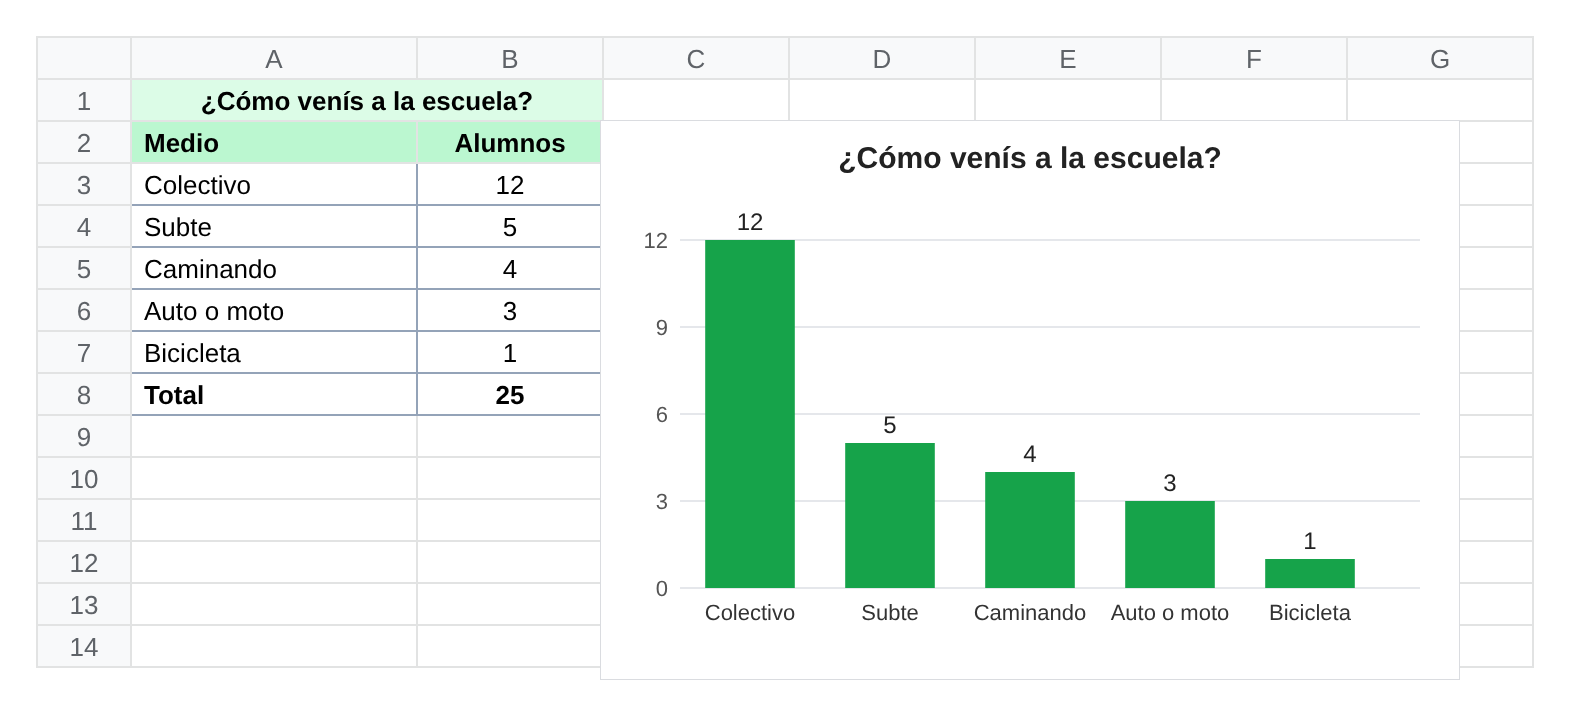
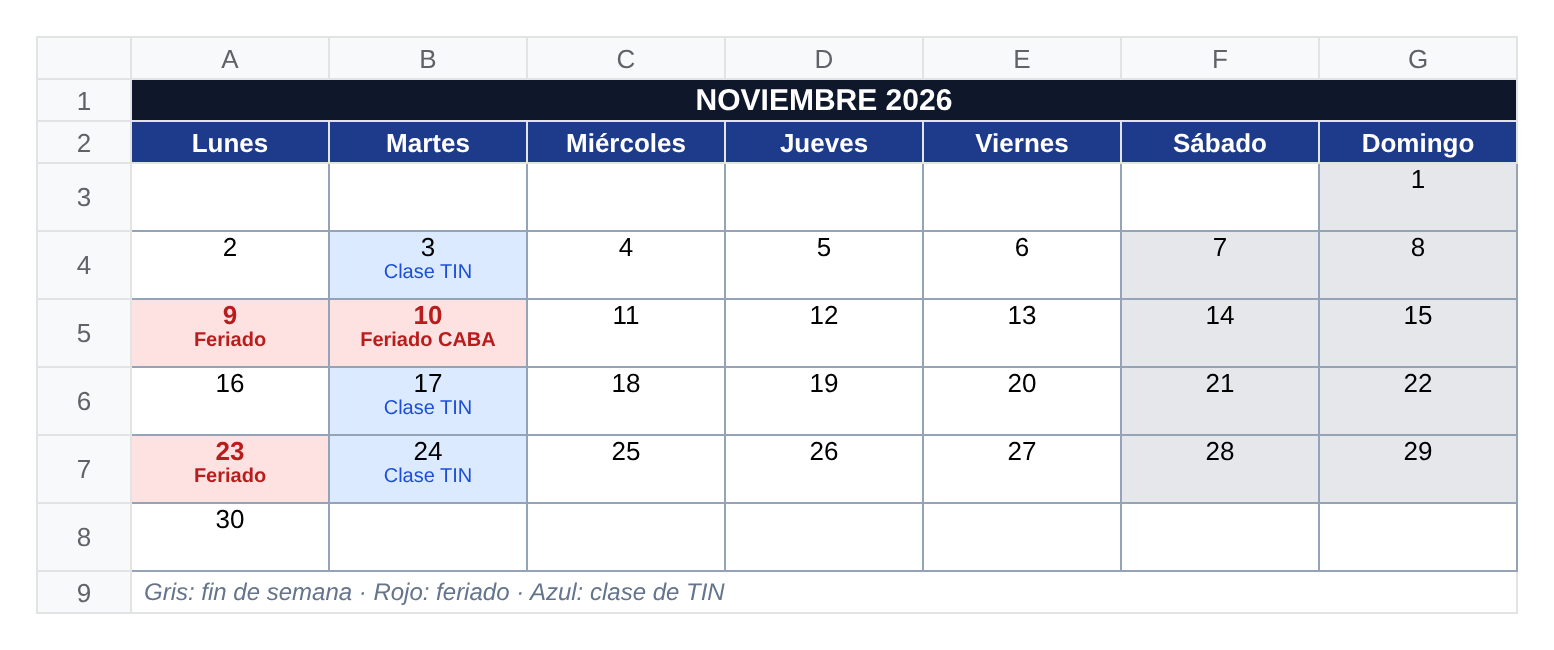
Add files via upload

diff --git a/clase34.html b/clase34.html
@@ -3,7 +3,7 @@
 <head>
     <meta charset="UTF-8">
     <meta name="viewport" content="width=device-width, initial-scale=1.0">
-    <title>Clase 34 — Cierre del año</title>
+    <title>Clase 34 — Trabajo final</title>
     <style>
         /* === VARIABLES DE COLOR === */
         :root {
@@ -293,121 +293,90 @@
 
         <!-- PANTALLA 1 -->
         <div class="screen active center-screen" id="screen-1">
-            <h1 class="title">Clase 34<br><span style="color: var(--accent-blue);">Cierre del año</span></h1>
-            <p class="subtitle">Un trabajo con Sheets, Docs y Canva juntos, y tiempo para entregar lo que falte.</p>
+            <h1 class="title">Clase 34<br><span style="color: var(--accent-blue);">Trabajo final</span></h1>
+            <p class="subtitle">Elegí una herramienta y hacé un trabajo para aprobar la materia.</p>
         </div>
         <!-- PANTALLA 2 -->
         <div class="screen" id="screen-2">
-            <h1 class="title title-ex"><span class="tag">Hoy</span>¿Qué hago en esta clase?</h1>
+            <h1 class="title title-ex"><span class="tag">Elegí una</span>Las 3 opciones</h1>
 
-            <ul class="check-list">
-                <li><b>Si te falta entregar algo:</b> terminalo primero. La lista está en la próxima pantalla.</li>
-                <li><b>Si tenés todo entregado:</b> hacé el trabajo integrador con las tres herramientas.</li>
-            </ul>
-        </div>
-        <!-- PANTALLA 3 -->
-        <div class="screen" id="screen-3">
-            <h1 class="title title-ex"><span class="tag">Puesta al día</span>Lo que se entregó este año</h1>
-
-            <ul class="check-list">
-                <li>Clase 28 — Evaluación: Día de la Tradición.</li>
-                <li>Clase 29 — CV a una columna.</li>
-                <li>Clase 29 bis — CV a dos columnas.</li>
-                <li>Clase 30 — CV mejorado con IA.</li>
-                <li>Clase 31 — Repaso de Docs.</li>
-                <li>Clase 32 — Repaso de Sheets.</li>
-                <li>Clase 33 — Repaso de Canva.</li>
+            <ul class="check-list steps">
+                <li><b>Docs:</b> una receta.</li>
+                <li><b>Sheets:</b> la planilla para organizar la fiesta.</li>
+                <li><b>Canva:</b> un certificado de fin de curso.</li>
             </ul>
 
             <div class="highlight-box">
-                📌 Cada módulo está en la página de clases. Abrilo, terminá lo que te falte y subilo a su tarea de Classroom.
+                📌 Hacé solo una de las tres.
+            </div>
+        </div>
+        <!-- PANTALLA 3 -->
+        <div class="screen" id="screen-3">
+            <h1 class="title title-ex"><span class="tag">Opción 1 · Docs</span>Receta</h1>
+
+            <div class="image-frame">
+                <a href="c34-docs.png" target="_blank"><img class="cv-image" src="c34-docs.png" alt="Modelo de receta en Docs"></a>
+            </div>
+            <p class="cv-hint">Tocá el modelo para verlo en grande.</p>
+
+            <p class="list-label">Tiene que tener</p>
+            <ul class="check-list">
+                <li>Título, subtítulo y una tabla chica con porciones y tiempo.</li>
+                <li>Ingredientes con viñetas.</li>
+                <li>Preparación con lista numerada.</li>
+            </ul>
+
+            <div class="highlight-box">
+                📌 Consigna: copiá esta receta (o escribí una que te guste con el mismo formato).
             </div>
         </div>
         <!-- PANTALLA 4 -->
         <div class="screen" id="screen-4">
-            <h1 class="title title-ex"><span class="tag">Trabajo integrador</span>La encuesta del año</h1>
-
-            <ul class="check-list steps">
-                <li>Hacé una encuesta en el curso: <b>"¿Qué herramienta te gustó más este año?"</b></li>
-                <li>Opciones: Google Docs, Google Sheets, Canva o IA.</li>
-                <li>Con los resultados vas a armar una planilla, un informe y un afiche.</li>
-            </ul>
-        </div>
-        <!-- PANTALLA 5 -->
-        <div class="screen" id="screen-5">
-            <h1 class="title title-ex"><span class="tag">Paso 1 · Sheets</span>Tabla y gráfico</h1>
+            <h1 class="title title-ex"><span class="tag">Opción 2 · Sheets</span>Organización de la fiesta</h1>
 
             <div class="image-frame">
-                <a href="c34-sheets.png" target="_blank"><img class="cv-image" src="c34-sheets.png" alt="Modelo de tabla y gráfico de la encuesta en Sheets"></a>
+                <a href="c34-sheets.png" target="_blank"><img class="cv-image" src="c34-sheets.png" alt="Modelo de planilla para organizar la fiesta"></a>
             </div>
             <p class="cv-hint">Tocá el modelo para verlo en grande.</p>
 
             <p class="list-label">Tiene que tener</p>
             <ul class="check-list">
-                <li>Tabla con cada herramienta, sus votos y el total.</li>
-                <li>Gráfico de columnas: <span class="menu-path">Insertar &gt; Gráfico</span>.</li>
+                <li>Título combinado y encabezados con color.</li>
+                <li>Al menos 6 tareas con responsable y fecha.</li>
+                <li>Estado en verde si está hecho y en amarillo si está pendiente.</li>
             </ul>
 
-            <div class="highlight-box highlight-tip">
-                💡 Los números del modelo son de ejemplo. Usá los de tu encuesta.
+            <div class="highlight-box">
+                📌 Consigna: copiá esta planilla (o armá la de otro evento).
             </div>
+        </div>
+        <!-- PANTALLA 5 -->
+        <div class="screen" id="screen-5">
+            <h1 class="title title-ex"><span class="tag">Opción 3 · Canva</span>Certificado de fin de curso</h1>
+
+            <div class="image-frame">
+                <a href="certificado.png" target="_blank"><img class="cv-image" src="certificado.png" alt="Modelo de certificado de fin de curso"></a>
+            </div>
+            <p class="cv-hint">Tocá el modelo para verlo en grande.</p>
+
+            <p class="list-label">Tiene que tener</p>
+            <ul class="check-list">
+                <li>Título: "Certificado".</li>
+                <li>Tu nombre, la materia y el año.</li>
+                <li>Un espacio para la firma.</li>
+            </ul>
 
             <div class="highlight-box">
-                📌 Consigna: armá la tabla y el gráfico con los votos de tu curso.
+                📌 Consigna: copiá este diseño (o basate en él) con tu nombre.
             </div>
         </div>
         <!-- PANTALLA 6 -->
         <div class="screen" id="screen-6">
-            <h1 class="title title-ex"><span class="tag">Paso 2 · Docs</span>Informe</h1>
-
-            <div class="image-frame">
-                <a href="c34-docs.png" target="_blank"><img class="cv-image" src="c34-docs.png" alt="Modelo de informe de la encuesta en Docs"></a>
-            </div>
-            <p class="cv-hint">Tocá el modelo para verlo en grande.</p>
-
-            <p class="list-label">Tiene que tener</p>
-            <ul class="check-list">
-                <li>Título y subtítulo.</li>
-                <li>Un párrafo que cuente qué se preguntó y a cuántos.</li>
-                <li>El gráfico: <span class="menu-path">Insertar &gt; Gráfico &gt; Desde Hojas de cálculo</span>, elegí tu planilla y hacé clic en <span class="menu-path">Importar</span>.</li>
-                <li>Una conclusión: cuál ganó y con cuántos votos.</li>
-            </ul>
-
-            <div class="highlight-box">
-                📌 Consigna: copiá este informe (o basate en él) con tus datos.
-            </div>
-        </div>
-        <!-- PANTALLA 7 -->
-        <div class="screen" id="screen-7">
-            <h1 class="title title-ex"><span class="tag">Paso 3 · Canva</span>Afiche con el resultado</h1>
-
-            <p class="subtitle" style="margin-bottom: 14px;">El modelo es el cartel directo de la clase del Día del Empleado de Comercio.</p>
-
-            <div class="image-frame">
-                <a href="cartedato.png" target="_blank"><img class="cv-image" src="cartedato.png" alt="Modelo de cartel directo del Día del Empleado de Comercio"></a>
-            </div>
-            <p class="cv-hint">Tocá el modelo para verlo en grande.</p>
-
-            <p class="list-label">Tiene que tener</p>
-            <ul class="check-list">
-                <li>El resultado en grande: qué herramienta ganó.</li>
-                <li>El dato: cuántos votos sacó.</li>
-                <li>Un ícono representativo.</li>
-            </ul>
-
-            <div class="highlight-box">
-                📌 Consigna: basate en este cartel "directo" para mostrar el resultado de la encuesta.
-            </div>
-        </div>
-        <!-- PANTALLA 8 -->
-        <div class="screen" id="screen-8">
             <h1 class="title title-ex" style="text-align: center;">Entrega</h1>
 
             <ul class="check-list">
-                <li>La planilla con la tabla y el gráfico.</li>
-                <li>El informe en PDF.</li>
-                <li>El afiche como imagen (PNG) o PDF.</li>
-                <li>Todo subido a la tarea de Classroom.</li>
+                <li>El trabajo que elegiste, en PDF o como imagen (PNG).</li>
+                <li>Subido a la tarea de Classroom.</li>
             </ul>
         </div>
 
@@ -418,7 +387,7 @@
                 Anterior
             </button>
 
-            <div class="step-counter" id="step-counter">1 / 8</div>
+            <div class="step-counter" id="step-counter">1 / 6</div>
 
             <button class="btn btn-next" id="btn-next" onclick="changeStep(1)">
                 Siguiente
@@ -431,7 +400,7 @@
     <!-- === LÓGICA DE NAVEGACIÓN === -->
     <script>
         let currentStep = 1;
-        const totalSteps = 8;
+        const totalSteps = 6;
 
         function updateUI() {
             document.querySelectorAll('.screen').forEach(screen => {

diff --git a/clase33.html b/clase33.html
@@ -294,19 +294,17 @@
         <!-- PANTALLA 1 -->
         <div class="screen active center-screen" id="screen-1">
             <h1 class="title">Clase 33<br><span style="color: var(--accent-blue);">Repaso de Canva</span></h1>
-            <p class="subtitle">Cuatro piezas para la fiesta de fin de año, con los modelos que ya conocés.</p>
+            <p class="subtitle">Cuatro piezas para las fiestas de fin de año.</p>
         </div>
         <!-- PANTALLA 2 -->
         <div class="screen" id="screen-2">
             <h1 class="title title-ex"><span class="tag">Hoy repasamos</span>Las 4 piezas</h1>
 
-            <p class="subtitle" style="margin-bottom: 14px;">Los modelos son los del Día de la Tradición. Ahora cambia el tema: la fiesta de fin de año.</p>
-
             <ul class="check-list steps">
-                <li><b>Afiche</b> de la fiesta.</li>
-                <li><b>Invitación.</b></li>
-                <li><b>Post e historia</b> para redes.</li>
-                <li><b>Cronograma</b> de la fiesta.</li>
+                <li><b>Tarjeta</b> de felices fiestas.</li>
+                <li><b>Invitación</b> a la fiesta de fin de año del curso.</li>
+                <li><b>Post e historia</b> de feliz año nuevo.</li>
+                <li><b>Menú</b> de la cena de fin de año.</li>
             </ul>
 
             <div class="highlight-box">
@@ -315,46 +313,46 @@
         </div>
         <!-- PANTALLA 3 -->
         <div class="screen" id="screen-3">
-            <h1 class="title title-ex"><span class="tag">Pieza 1</span>Afiche</h1>
+            <h1 class="title title-ex"><span class="tag">Pieza 1</span>Tarjeta de felices fiestas</h1>
 
             <div class="image-frame">
-                <a href="trad1.png" target="_blank"><img class="cv-image" src="trad1.png" alt="Modelo de afiche del Día de la Tradición"></a>
+                <a href="fiestas1.png" target="_blank"><img class="cv-image" src="fiestas1.png" alt="Modelo de tarjeta de felices fiestas"></a>
             </div>
             <p class="cv-hint">Tocá el modelo para verlo en grande.</p>
 
             <p class="list-label">Tiene que tener</p>
             <ul class="check-list">
-                <li>Título grande: "Fiesta de fin de año".</li>
-                <li>Fecha, hora y lugar.</li>
-                <li>Un ícono o imagen que represente la fiesta.</li>
+                <li>Un saludo corto y grande.</li>
+                <li>Un ícono o imagen de las fiestas.</li>
+                <li>A quién va dirigida y quién la manda.</li>
             </ul>
 
-            <div class="highlight-box highlight-tip">
-                💡 <b>Datos:</b> Fiesta de fin de año · Viernes 4 de diciembre · 20 h · Patio de la escuela.
-            </div>
-
             <div class="highlight-box">
-                📌 Consigna: basate en este diseño para el afiche de la fiesta.
+                📌 Consigna: copiá este diseño (o basate en él) para tu tarjeta.
             </div>
         </div>
         <!-- PANTALLA 4 -->
         <div class="screen" id="screen-4">
-            <h1 class="title title-ex"><span class="tag">Pieza 2</span>Invitación</h1>
+            <h1 class="title title-ex"><span class="tag">Pieza 2</span>Invitación a la fiesta</h1>
 
             <div class="image-frame">
-                <a href="trad2.png" target="_blank"><img class="cv-image" src="trad2.png" alt="Modelo de invitación del Día de la Tradición"></a>
+                <a href="fiestas2.png" target="_blank"><img class="cv-image" src="fiestas2.png" alt="Modelo de invitación a la fiesta de fin de año"></a>
             </div>
             <p class="cv-hint">Tocá el modelo para verlo en grande.</p>
 
             <p class="list-label">Tiene que tener</p>
             <ul class="check-list">
-                <li>Qué: la fiesta de fin de año.</li>
+                <li>Qué: la fiesta de fin de año del curso.</li>
                 <li>Cuándo y dónde.</li>
-                <li>Mismos colores y tipografías que el afiche.</li>
+                <li>Mismos colores y tipografías que la tarjeta.</li>
             </ul>
 
+            <div class="highlight-box highlight-tip">
+                💡 <b>Datos de ejemplo:</b> Viernes 4 de diciembre · 20 h · Patio de la escuela.
+            </div>
+
             <div class="highlight-box">
-                📌 Consigna: basate en este diseño para la invitación.
+                📌 Consigna: copiá este diseño (o basate en él) para la invitación.
             </div>
         </div>
         <!-- PANTALLA 5 -->
@@ -362,7 +360,7 @@
             <h1 class="title title-ex"><span class="tag">Pieza 3</span>Post e historia</h1>
 
             <div class="image-frame">
-                <a href="trad3.png" target="_blank"><img class="cv-image" src="trad3.png" alt="Modelo de post e historia del Día de la Tradición"></a>
+                <a href="fiestas3.png" target="_blank"><img class="cv-image" src="fiestas3.png" alt="Modelo de post e historia de feliz año nuevo"></a>
             </div>
             <p class="cv-hint">Tocá el modelo para verlo en grande.</p>
 
@@ -374,27 +372,27 @@
             </ul>
 
             <div class="highlight-box">
-                📌 Consigna: pasá tu afiche a los dos formatos.
+                📌 Consigna: armá tu saludo de año nuevo en los dos formatos.
             </div>
         </div>
         <!-- PANTALLA 6 -->
         <div class="screen" id="screen-6">
-            <h1 class="title title-ex"><span class="tag">Pieza 4</span>Cronograma</h1>
+            <h1 class="title title-ex"><span class="tag">Pieza 4</span>Menú de la cena</h1>
 
             <div class="image-frame">
-                <a href="trad4.png" target="_blank"><img class="cv-image" src="trad4.png" alt="Modelo de cronograma del Día de la Tradición"></a>
+                <a href="fiestas4.png" target="_blank"><img class="cv-image" src="fiestas4.png" alt="Modelo de menú de la cena de fin de año"></a>
             </div>
             <p class="cv-hint">Tocá el modelo para verlo en grande.</p>
 
             <p class="list-label">Tiene que tener</p>
             <ul class="check-list">
-                <li>Al menos 4 horarios con su actividad.</li>
-                <li>Los horarios tienen que destacarse.</li>
-                <li>Mismos colores y tipografías que las otras piezas.</li>
+                <li>Título del menú.</li>
+                <li>Entrada, plato principal, postre y bebidas.</li>
+                <li>Los nombres de cada parte destacados.</li>
             </ul>
 
             <div class="highlight-box">
-                📌 Consigna: armá el cronograma de la fiesta con horarios y actividades que se te ocurran.
+                📌 Consigna: copiá este diseño (o basate en él) con el menú que se te ocurra.
             </div>
         </div>
         <!-- PANTALLA 7 -->
@@ -402,7 +400,7 @@
             <h1 class="title title-ex" style="text-align: center;">Entrega</h1>
 
             <ul class="check-list">
-                <li>5 piezas: afiche, invitación, post, historia y cronograma.</li>
+                <li>5 piezas: tarjeta, invitación, post, historia y menú.</li>
                 <li>Descargadas como imagen (PNG) o PDF.</li>
                 <li>Subidas a la tarea de Classroom.</li>
             </ul>

diff --git a/clase32.html b/clase32.html
@@ -303,7 +303,7 @@
             <ul class="check-list steps">
                 <li><b>Dibujo con celdas:</b> coordenadas y color de relleno.</li>
                 <li><b>Tabla con formato:</b> celdas combinadas, colores y bordes.</li>
-                <li><b>Tabla con gráfico:</b> datos de una encuesta y su gráfico.</li>
+                <li><b>Calendario:</b> una tabla grande con colores para cada tipo de día.</li>
             </ul>
 
             <div class="highlight-box">
@@ -353,22 +353,27 @@
         </div>
         <!-- PANTALLA 5 -->
         <div class="screen" id="screen-5">
-            <h1 class="title title-ex"><span class="tag">Ejercicio 3</span>Tabla con gráfico</h1>
+            <h1 class="title title-ex"><span class="tag">Ejercicio 3</span>Calendario</h1>
 
             <div class="image-frame">
-                <a href="c32-modelo3.png" target="_blank"><img class="cv-image" src="c32-modelo3.png" alt="Modelo de tabla y gráfico: cómo vienen los alumnos a la escuela"></a>
+                <a href="c32-modelo3.png" target="_blank"><img class="cv-image" src="c32-modelo3.png" alt="Modelo de calendario de noviembre 2026 en Sheets"></a>
             </div>
             <p class="cv-hint">Tocá el modelo para verlo en grande.</p>
 
             <p class="list-label">Tiene que tener</p>
             <ul class="check-list">
-                <li>Tabla con los datos y una fila de total.</li>
-                <li>Seleccioná la tabla, sin el título ni el total, y andá a <span class="menu-path">Insertar &gt; Gráfico</span>.</li>
-                <li>Si no sale de columnas, hacé doble clic en el gráfico y cambialo en "Tipo de gráfico".</li>
+                <li>Título combinado arriba y los días de la semana como encabezado.</li>
+                <li>Filas más altas para que entre el número y una aclaración.</li>
+                <li>Fines de semana en gris, feriados en rojo y días de clase en azul.</li>
+                <li>Una fila al final que explique qué significa cada color.</li>
             </ul>
 
+            <div class="highlight-box highlight-tip">
+                💡 Para hacer más alta una fila, arrastrá la línea de abajo del número de fila.
+            </div>
+
             <div class="highlight-box">
-                📌 Consigna: copiá esta tabla y su gráfico (o hacé la encuesta en tu curso y usá esos datos).
+                📌 Consigna: copiá este calendario (o armá el de diciembre con tus propias fechas).
             </div>
         </div>
         <!-- PANTALLA 6 -->

diff --git a/index.html b/index.html
@@ -86,9 +86,9 @@ const UNIDADES = [
     icono: "🔁",
     clases: [
       { emoji: "📄", titulo: "Clase 31 — Repaso de Docs", desc: "Texto con formato, tabla con formato, presupuesto y carta de presentación.", href: "clase31.html" },
-      { emoji: "📗", titulo: "Clase 32 — Repaso de Sheets", desc: "Dibujo con celdas, tabla con formato y tabla con gráfico.", href: "clase32.html" },
-      { emoji: "🎨", titulo: "Clase 33 — Repaso de Canva", desc: "Afiche, invitación, post e historia y cronograma para la fiesta de fin de año.", href: "clase33.html" },
-      { emoji: "🎓", titulo: "Clase 34 — Cierre del año", desc: "Puesta al día de entregas y trabajo integrador con Sheets, Docs y Canva.", href: "clase34.html" },
+      { emoji: "📗", titulo: "Clase 32 — Repaso de Sheets", desc: "Dibujo con celdas, tabla con formato y calendario.", href: "clase32.html" },
+      { emoji: "🎨", titulo: "Clase 33 — Repaso de Canva", desc: "Tarjeta, invitación, post e historia y menú para las fiestas de fin de año.", href: "clase33.html" },
+      { emoji: "🎓", titulo: "Clase 34 — Trabajo final", desc: "Trabajo de aprobación a elección: una receta en Docs, una planilla en Sheets o un certificado en Canva.", href: "clase34.html" },
     ]
   },
 ];
